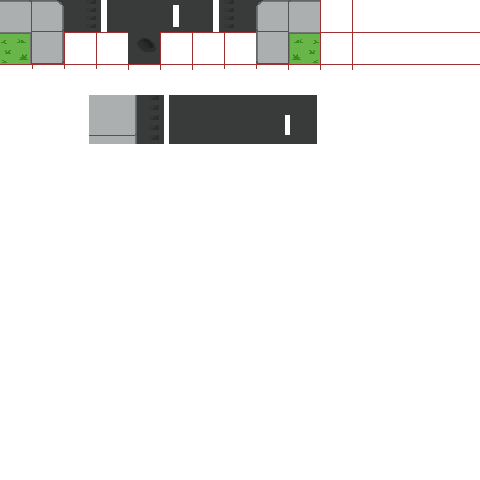
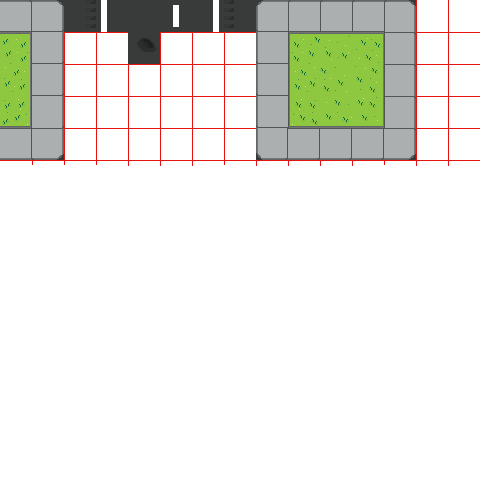
new animations

diff --git a/src/backgroundScene.js b/src/backgroundScene.js
@@ -20,6 +20,6 @@ class backgroundScene extends Phaser.Scene {
     }
 
     update() {
-        this.HIGHWAY.tilePositionY += .5; // Scroll faster
+        this.HIGHWAY.tilePositionY -= .5; // Scroll faster
     }
 }
